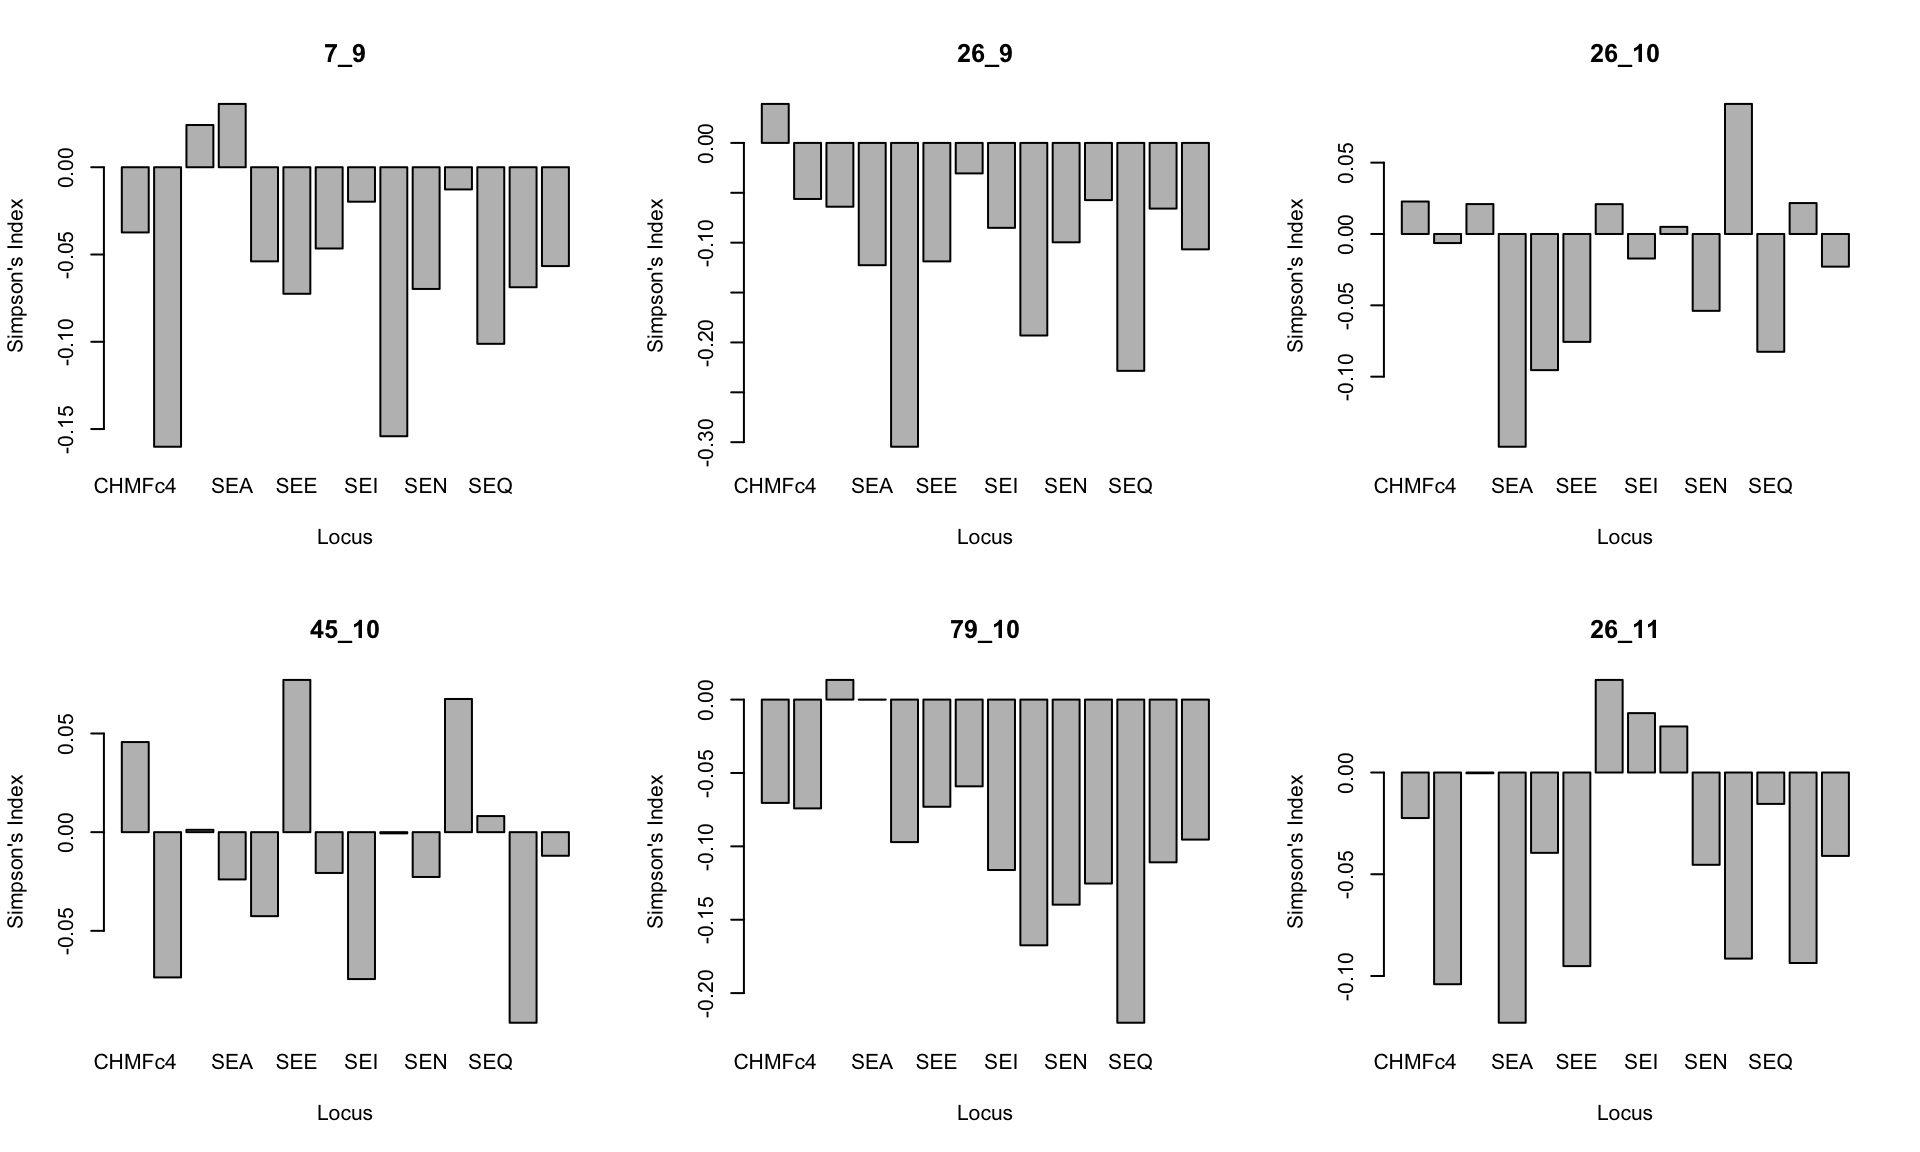
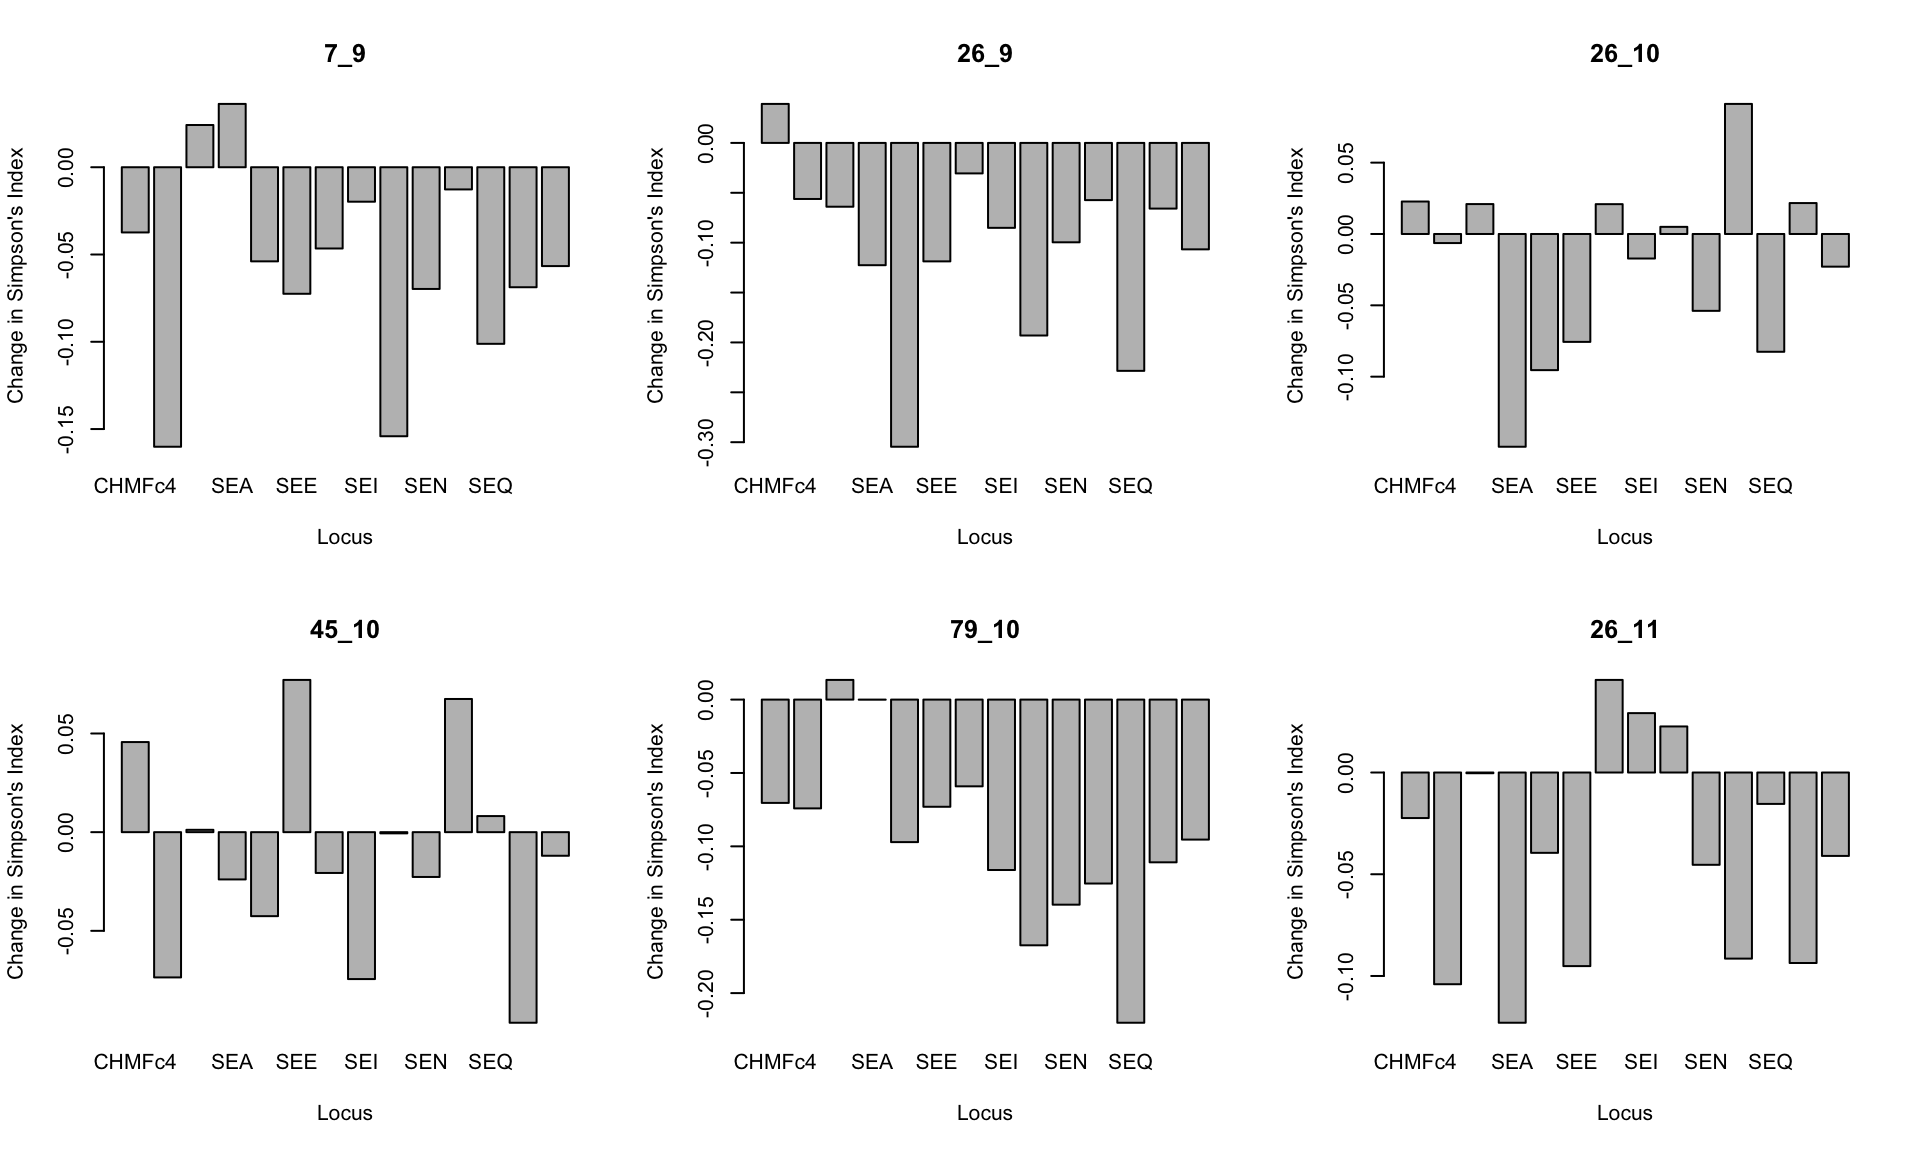
modify Clone Corrections

diff --git a/Population_Hierarchies.html b/Population_Hierarchies.html
@@ -320,10 +320,14 @@ monpop</code></pre>
 ## 
 ##      3 hierarchical levels - Tree Year Symptom
 ##      8 populations defined - BB_7 BB_26 FR_26 ... BB_79 FR_79 FR_45</code></pre>
+<p>Now that we have laid out the basics of manipulating populations by hierarchies, we will now talk a little bit about using these hierarchies for clone correction.</p>
 </div>
 <div id="clone-correction" class="section level2">
 <h2>Clone correction</h2>
-<p>When dealing wtih a clonal populations, analyses are typically conducted with and without clone corrections. Clone correction results in retaining only one individual per MLG. This technique is commonly used with the analysis of the index of association. Clone correction requires specification of the hierarchical levels at which clones should be censored.</p>
+<p>When dealing with clonal populations, analyses are typically conducted with and without clone correction. Clone correction is a method of censoring a data set such that only one individual per MLG is represented per population <span class="citation">(Milgroom, 1996; Grünwald et al., 2003; Grünwald &amp; Hoheisel, 2006)</span>. This technique is commonly used with the analysis of the index of association and allelic diversity measures since duplicated genotypes have the potential to bias the analysis. Since we want to only observe unique genotypes per population, clone correction requires specification of the hierarchical levels at which clones should be censored. This section will show how to clone correct at a specific hierarchical level and also compare the results with uncorrected data.</p>
+<blockquote>
+<p>Question: Will allelic diversity increase or decrease with clone-censored data?</p>
+</blockquote>
 <p>Using <code>monpop</code> as an example, if we wanted to know the diversity of alleles within each tree per year, how should we go about correcting for the clones? We use the function <code>clonecorrect</code> specifying the “Tree/Year” hierarchy:</p>
 <pre class="r"><code>mcc_TY &lt;- clonecorrect(monpop, hier = ~Tree/Year, keep = 1:2)
 mcc_TY</code></pre>
@@ -340,7 +344,8 @@ mcc_TY</code></pre>
 ## 
 ##      3 hierarchical levels - Tree Year Symptom
 ##      6 populations defined - 7_9 26_9 26_10 45_10 79_10 26_11</code></pre>
-<pre class="r"><code>setpop(monpop) &lt;- ~Tree/Year</code></pre>
+<pre class="r"><code># Don&#39;t forget to set the original data set to the same hierarchy.
+setpop(monpop) &lt;- ~Tree/Year</code></pre>
 <p>Now we can compare the diversity of alleles at each locus using Simpson’s index (<span class="math">\(1-D\)</span>) as implemented in the function <code>locus_table</code>. We will do this in three steps:</p>
 <ol style="list-style-type: decimal">
 <li>Calculate diversity of the clone corrected data</li>
@@ -386,16 +391,16 @@ barplot(locus_diff[, &quot;1-D&quot;], ylab = &quot;Change in Simpson&#39;s Inde
 <h4>Example: harmonic mean</h4>
 <p>As an example function, let’s write a function that will take the harmonic mean of a vector of numbers. First, we’ll see how to do it in a non-functional way.</p>
 <blockquote>
-<p>The harmonic mean takes the reciprocal of the arithmetic mean of the reciprocal.</p>
+<p>The harmonic mean has been utilized to estimate effective population size of a population that has undergone drastic changes in population size <span class="citation">(Nielsen &amp; Slatkin, 2013)</span>.</p>
 </blockquote>
-<pre class="r"><code>vec &lt;- c(10, 2, 19, 24, 6, 23, 47, 24, 54, 77)
+<pre class="r"><code>psize &lt;- c(10, 100, 50, 80, 20, 500)
 # Arithmetic mean
-mean(vec)</code></pre>
-<pre><code>## [1] 28.6</code></pre>
+mean(psize)</code></pre>
+<pre><code>## [1] 126.6667</code></pre>
 <pre class="r"><code># Harmonic mean
-rmean &lt;- mean(1/vec)
+rmean &lt;- mean(1/psize)
 1/rmean</code></pre>
-<pre><code>## [1] 10.01109</code></pre>
+<pre><code>## [1] 30.84833</code></pre>
 <p>If we didn’t want to type all that, we could just write it into a function so that it can be reused without so much typing:</p>
 <blockquote>
 <p>Note here that the <em>argument</em> is <strong>x</strong> and it is a placeholder for any value you put into the function.</p>
@@ -404,10 +409,10 @@ rmean &lt;- mean(1/vec)
   rmean &lt;- mean(1/x)
   1/rmean
 }
-mean(vec)</code></pre>
-<pre><code>## [1] 28.6</code></pre>
-<pre class="r"><code>hmean(vec)</code></pre>
-<pre><code>## [1] 10.01109</code></pre>
+mean(psize)</code></pre>
+<pre><code>## [1] 126.6667</code></pre>
+<pre class="r"><code>hmean(psize)</code></pre>
+<pre><code>## [1] 30.84833</code></pre>
 </div>
 <div id="writing-a-function-for-comparing-clone-corrected-and-uncorrected-data" class="section level4">
 <h4>Writing a function for comparing clone corrected and uncorrected data</h4>
@@ -433,9 +438,9 @@ mean(vec)</code></pre>
   barplot(res[, &quot;1-D&quot;], main = pop_name, ylab = &quot;Change in Simpson&#39;s Index&quot;, xlab = &quot;Locus&quot;)
 }</code></pre>
 <p>Now that we have our function written, let’s gather the population names and construct a <em>for loop</em> that will analyze each one.</p>
-<pre class="r"><code>pops &lt;- monpop@pop.names # Gather the population names
-par(mfrow = c(2, 3))     # Set up the graphics to have two rows and three columns
-for (i in pops){
+<pre class="r"><code>par(mfrow = c(2, 3)) # Set up the graphics to have two rows and three columns
+
+for (i in monpop@pop.names){
   plot_simp_diff(i, mcc_TY, monpop)
 }</code></pre>
 <p><img src="Population_Hierarchies_files/figure-html/unnamed-chunk-11-1.png" title="" alt="" width="960" /></p>
@@ -446,7 +451,7 @@ for (i in pops){
 </div>
 <div id="conclusions" class="section level2">
 <h2>Conclusions</h2>
-<p>This was a brief introduction to the easiest way to create hierarchical levels and apply them in <em>poppr</em> to more rapidly analyze your data. By indexing the hierarchical levels of your data, you can set the hierarchical level(s) you want to have analyzed in a single command line. This approach avoids having to create new sub-sets of the data for each analysis and simultaneously reduces the chance of error when manipulating data sets by hand.</p>
+<p>This was a brief introduction to the easiest way to create hierarchical levels and apply them in <em>poppr</em> to more rapidly analyze your data. By indexing the hierarchical levels of your data, you can set the hierarchical level(s) you want to have analyzed in a single command. This approach avoids having to create new sub-sets of the data for each analysis and simultaneously reduces the chance of error when manipulating data sets by hand.</p>
 </div>
 <div id="references" class="section level2">
 <h2>References</h2>
@@ -455,6 +460,10 @@ for (i in pops){
 
 <div class="references">
 <p>Everhart S., Scherm H. 2014. Fine-scale genetic structure of <em>Monilinia fructicola</em> during brown rot epidemics within individual peach tree canopies. <em>Phytopathology</em> ##:submitted.</p>
+<p>Grünwald N., Goodwin S., Milgroom M., Fry W. 2003. Analysis of genotypic diversity data for populations of microorganisms. <em>Phytopathology</em> 93:738–746. Available at: <a href="http://apsjournals.apsnet.org/doi/abs/10.1094/PHYTO.2003.93.6.738">http://apsjournals.apsnet.org/doi/abs/10.1094/PHYTO.2003.93.6.738</a></p>
+<p>Grünwald N., Hoheisel G-A. 2006. Hierarchical analysis of diversity, selfing, and genetic differentiation in populations of the oomycete <em>Aphanomyces euteiches</em>. <em>Phytopathology</em> 96:1134–1141. Available at: <a href="http://apsjournals.apsnet.org/doi/abs/10.1094/PHYTO-96-1134">http://apsjournals.apsnet.org/doi/abs/10.1094/PHYTO-96-1134</a></p>
+<p>Milgroom M. 1996. Recombination and the multilocus structure of fungal populations. <em>Annual review of phytopathology</em> 34:457–477. Available at: <a href="http://www.annualreviews.org/doi/abs/10.1146/annurev.phyto.34.1.457">http://www.annualreviews.org/doi/abs/10.1146/annurev.phyto.34.1.457</a></p>
+<p>Nielsen R., Slatkin M. 2013. <em>An introduction to population genetics: Theory and applications</em>. Sinauer Associates, Incorporated. Available at: <a href="http://books.google.com/books?id=Iy08kgEACAAJ">http://books.google.com/books?id=Iy08kgEACAAJ</a></p>
 </div>
 </div>
 

diff --git a/Getting_ready_to_use_R.html b/Getting_ready_to_use_R.html
@@ -297,7 +297,7 @@ in several ways:
 </blockquote>
 <p>Our primer is heavily based on the <em>poppr</em> and <em>adegenet</em> packages. To get help on any of their functions type a question mark before the empty function call as in:</p>
 <pre class="r"><code>?mlg # open the R documentiaon of the function mlg()</code></pre>
-<p>To quit R you can either use the <code>Rstudio &gt; Quit</code> pull-down menu command or execute <code>⌘ + Q</code> (OS X) or <code>CTRL + Q</code> (PC).</p>
+<p>To quit R you can either use the <kbd>Rstudio &gt; Quit</kbd> pull-down menu command or execute <kbd>⌘ + Q</kbd> (OS X) or <kbd>ctrl + Q</kbd> (PC).</p>
 </div>
 <div id="packages-and-getting-help" class="section level2">
 <h2>Packages and getting help</h2>
